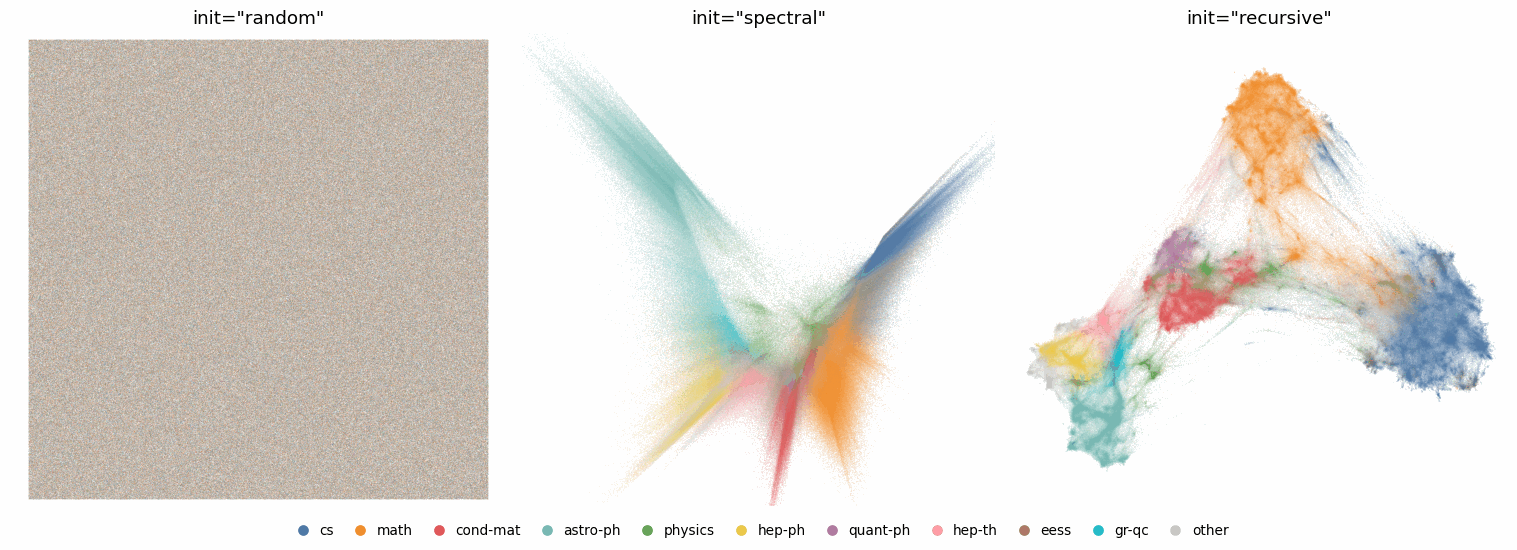
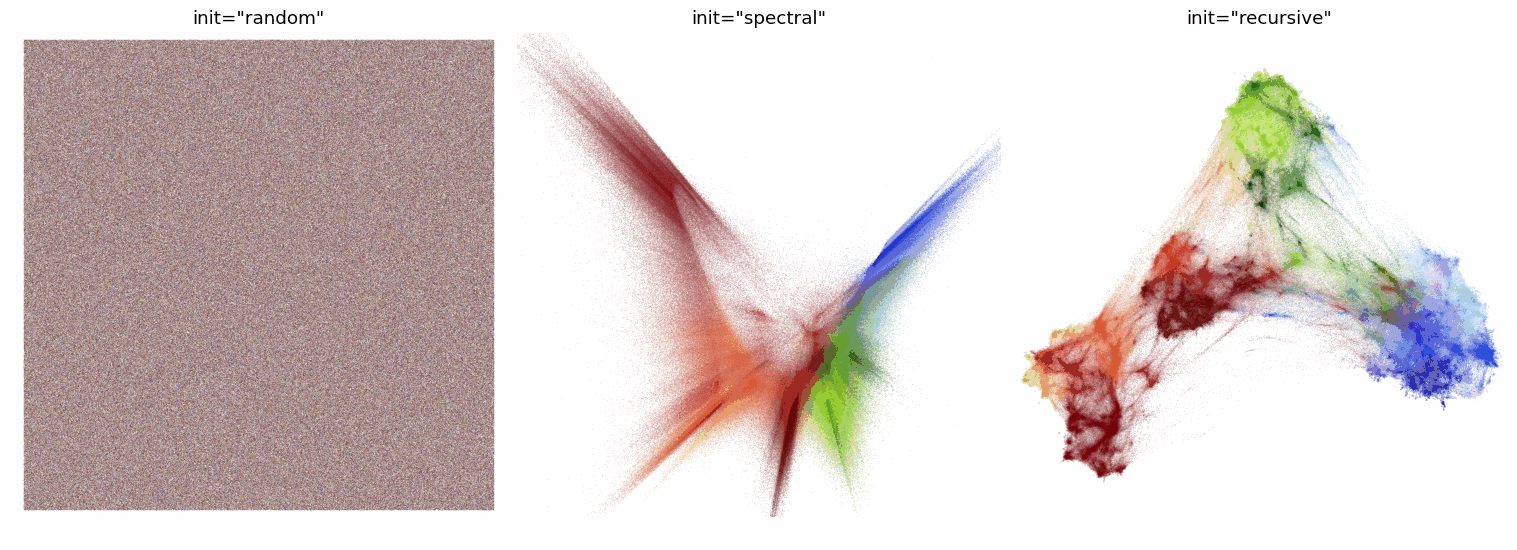
Large-datasets tutorial: domain-blocked arXiv colour key; zoom on math.OC
Colour the arXiv maps by domain with glasbey block palettes (physics reds,
computer science blues, mathematics greens, ...), with the largest categories
in each domain shaded individually. The historical physics archives are grouped
under physics and retired pre-1999 archive names are mapped to their modern
categories using arXiv's taxonomy. The page shows the short code that builds the
key (verified to reproduce the figures' labels and colours exactly) and a single
grouped legend figure.

The zoomed figures move from cs.CL, which becomes near-uniform blue under a
domain-blocked key, to the optimization and control (math.OC) region where
mathematics, computer science, engineering, statistics and physics meet; the
narrative is updated to match what those views show.

diff --git a/doc/large_datasets.rst b/doc/large_datasets.rst
@@ -60,8 +60,19 @@ the archive it belongs to (``cs`` or ``hep-th``).
 That is a little over 50GB of ``float32`` vectors. The largest archives
 are computer science (``cs``) with 776,261 papers and mathematics
 (``math``) with 585,316, followed by condensed matter physics and
-astrophysics. We will color the ten largest archives, and show the rest in
-grey.
+astrophysics.
+
+For coloring the plots it helps to group the archives a little. When
+arXiv was entirely physics, each area of physics was given its own
+archive, so ``hep-th``, ``cond-mat`` or ``astro-ph`` sit at the same level
+as all of computer science or mathematics. We will put those archives
+together under physics, and color each broad domain with its own family
+of hues: physics in reds and oranges, computer science in blues,
+mathematics in greens, and so on. Within each domain the largest
+categories get their own shade, and the rest of the domain shares one
+more. A handful of papers from before 1999 use archive names that arXiv
+has since retired, such as ``cmp-lg`` (now ``cs.CL``) or ``alg-geom``
+(now ``math.AG``); we map those to their modern equivalents first.
 
 Plotting millions of points
 ~~~~~~~~~~~~~~~~~~~~~~~~~~~
@@ -79,23 +90,61 @@ zoom we simply give datashader a smaller range of coordinates to render;
 because it renders every point at full resolution, zooming in reveals
 genuine fine structure rather than just enlarging pixels.
 
+To build the color key we need to say which categories get a shade of
+their own. Here we use the categories with at least 20,000 papers that
+make up at least 2% of their domain; physics is shown at the level of
+its historical archives. The `glasbey <https://github.com/lmcinnes/glasbey>`__
+library (``pip install glasbey``) then generates one block of related
+colors for each domain.
+
 .. code:: python3
 
     import datashader as ds
     import datashader.transfer_functions as tf
+    import glasbey
 
-    top_archives = archive.value_counts().index[:10]
-    archive_labels = pd.Categorical(
-        archive.where(archive.isin(top_archives), "other"),
-        categories=list(top_archives) + ["other"],
+    # Retired archive names and their modern equivalents (from arXiv's taxonomy)
+    subsumed = {
+        "acc-phys": "physics.acc-ph", "adap-org": "nlin.AO", "alg-geom": "math.AG",
+        "ao-sci": "physics.ao-ph", "atom-ph": "physics.atom-ph",
+        "bayes-an": "physics.data-an", "chao-dyn": "nlin.CD",
+        "chem-ph": "physics.chem-ph", "cmp-lg": "cs.CL", "comp-gas": "nlin.CG",
+        "dg-ga": "math.DG", "funct-an": "math.FA", "mtrl-th": "cond-mat.mtrl-sci",
+        "patt-sol": "nlin.PS", "plasm-ph": "physics.plasm-ph", "q-alg": "math.QA",
+        "solv-int": "nlin.SI", "supr-con": "cond-mat.supr-con",
+    }
+    # Every archive that is not listed here is part of physics
+    domains = {
+        "cs": "computer science", "math": "mathematics", "eess": "engineering",
+        "stat": "statistics", "q-bio": "biology", "q-fin": "finance",
+        "econ": "economics",
+    }
+    shown = {
+        "physics": ["cond-mat", "astro-ph", "physics", "hep-ph", "quant-ph",
+                    "hep-th", "gr-qc", "nucl-th", "math-ph"],
+        "computer science": ["cs.CV", "cs.LG", "cs.CL", "cs.AI", "cs.RO",
+                             "cs.IT", "cs.CR"],
+        "mathematics": ["math.AP", "math.CO", "math.PR", "math.AG", "math.OC",
+                        "math.NT", "math.NA"],
+        "engineering": ["eess.SY", "eess.SP"],
+        "statistics": ["stat.ME", "stat.ML"],
+        "biology": [], "finance": [], "economics": [],
+    }
+
+    category = primary_category.replace(subsumed)
+    domain = category.str.split(".").str[0].map(domains).fillna("physics")
+    name = category.where(domain != "physics", category.str.split(".").str[0])
+
+    names = [n for d, cats in shown.items() for n in cats + [f"other {d}"]]
+    palette = glasbey.create_block_palette(
+        [len(cats) + 1 for cats in shown.values()], optimize_palette=False
     )
-    palette = [
-        "#4e79a7", "#f28e2b", "#e15759", "#76b7b2", "#59a14f",
-        "#edc948", "#b07aa1", "#ff9da7", "#9c755f", "#17becf", "#c8c8c8",
-    ]
-    color_key = dict(zip(archive_labels.categories, palette))
+    color_key = dict(zip(names, palette))
+    labels = pd.Categorical(
+        name.where(name.isin(names), "other " + domain), categories=names
+    )
 
-    def plot(embedding, labels=archive_labels, color_key=color_key,
+    def plot(embedding, labels=labels, color_key=color_key,
              x_range=None, y_range=None, size=1000):
         frame = pd.DataFrame(
             {"x": embedding[:, 0], "y": embedding[:, 1], "label": labels}
@@ -107,10 +156,13 @@ genuine fine structure rather than just enlarging pixels.
         image = tf.shade(aggregate, color_key=color_key, how="eq_hist", min_alpha=60)
         return tf.set_background(image, "white")
 
-All of the plots below were made this way. For the zoomed views we color
-the papers by their primary category within computer science instead of
-by archive, and set ``x_range`` and ``y_range`` to a square around the
-papers we are interested in.
+Here is the resulting color key:
+
+.. image:: images/large_datasets_legend.png
+
+All of the plots below were made with this ``plot`` function and color
+key. For the zoomed views we simply set ``x_range`` and ``y_range`` to a
+square around the papers we are interested in.
 
 Finding nearest neighbors
 -------------------------
@@ -414,16 +466,19 @@ with a few different repulsion strengths:
 At the scale of the whole plot the differences are modest: the archives
 stay where they were and look a little more granular. The differences are
 in the fine structure, and to see them we need to zoom in. Here is the
-region of the plot containing the computation and language papers
-(``cs.CL``), colored by the primary category of each paper within
-computer science:
+region of the plot around the papers on optimization and control
+(``math.OC``). Optimization is used everywhere, so this is a busy
+crossroads of the map, where mathematics (greens), computer science
+(blues), engineering (magentas), statistics (greys) and physics (reds)
+all meet. Each view is centered on the ``math.OC`` papers and sized to
+contain four fifths of them:
 
 .. image:: images/large_datasets_repulsion_zoom.png
 
-With the default repulsion much of the language region is squeezed into
-a dense mass with little visible internal structure. As the repulsion
-increases the region opens up, and more of the distinct groups of papers
-within it are resolved. We can put numbers on this with the neighbor
+With the default repulsion the region is a dense tangle in which the
+different fields blur into each other. As the repulsion increases the
+region opens up, and more of the distinct groups of papers within it are
+resolved. We can put numbers on this with the neighbor
 preservation and silhouette measures from the previous section:
 
 .. list-table::
@@ -483,16 +538,18 @@ scale (20.5% and 20.8% of the 150 nearest neighbors). Tearing does not
 create false neighbors, so these measures do not see it. You can see it
 in the plot, though: the archives have broken up into a web of filaments
 and fragments, and they are less well separated (a silhouette of 0.12,
-against 0.15 for the new pipeline). Zooming in on the computation and
-language papers, as before, makes the problem clear:
+against 0.15 for the new pipeline). Zooming in on the optimization and
+control papers, as before, makes the problem clear:
 
 .. image:: images/large_datasets_old_vs_new_zoom.png
 
-With the original optimizer the language papers have been torn into
-several separate pieces, so the region centered on them is dominated by
-computer vision and robotics papers instead. Nothing in the plot tells
-you that those pieces belong together. The new pipeline keeps the field
-in one piece, with its internal structure laid out within it.
+With the original optimizer the optimization and control papers have been
+scattered: to contain four fifths of them the view has to cover three
+times the area that it does for the new pipeline, and what it shows is a
+web of disconnected filaments and clumps separated by empty space.
+Nothing in the plot tells you that those pieces belong together. The new
+pipeline keeps the region together, with the different fields that meet
+there laid out side by side.
 
 The new optimizer limits the size of each repulsive force with a smooth
 cap that grows with the repulsion strength (rather than clipping every
@@ -542,11 +599,12 @@ off:
 
 .. image:: images/large_datasets_hard_negatives_zoom.png
 
+Here we are looking at the optimization and control region again.
 Without hard negatives, the higher repulsion has separated out groups of
 papers, but much of the region is still compressed into dense clumps with
 empty space between them: most of the uniformly sampled negatives are far
 away and contribute little to the local layout. With hard negatives the
-repulsion acts where it is needed, and the region expands into a much
+repulsion acts where it is needed, and the region fills out into a much
 more detailed structure. The neighbor preservation agrees:
 
 .. list-table::
